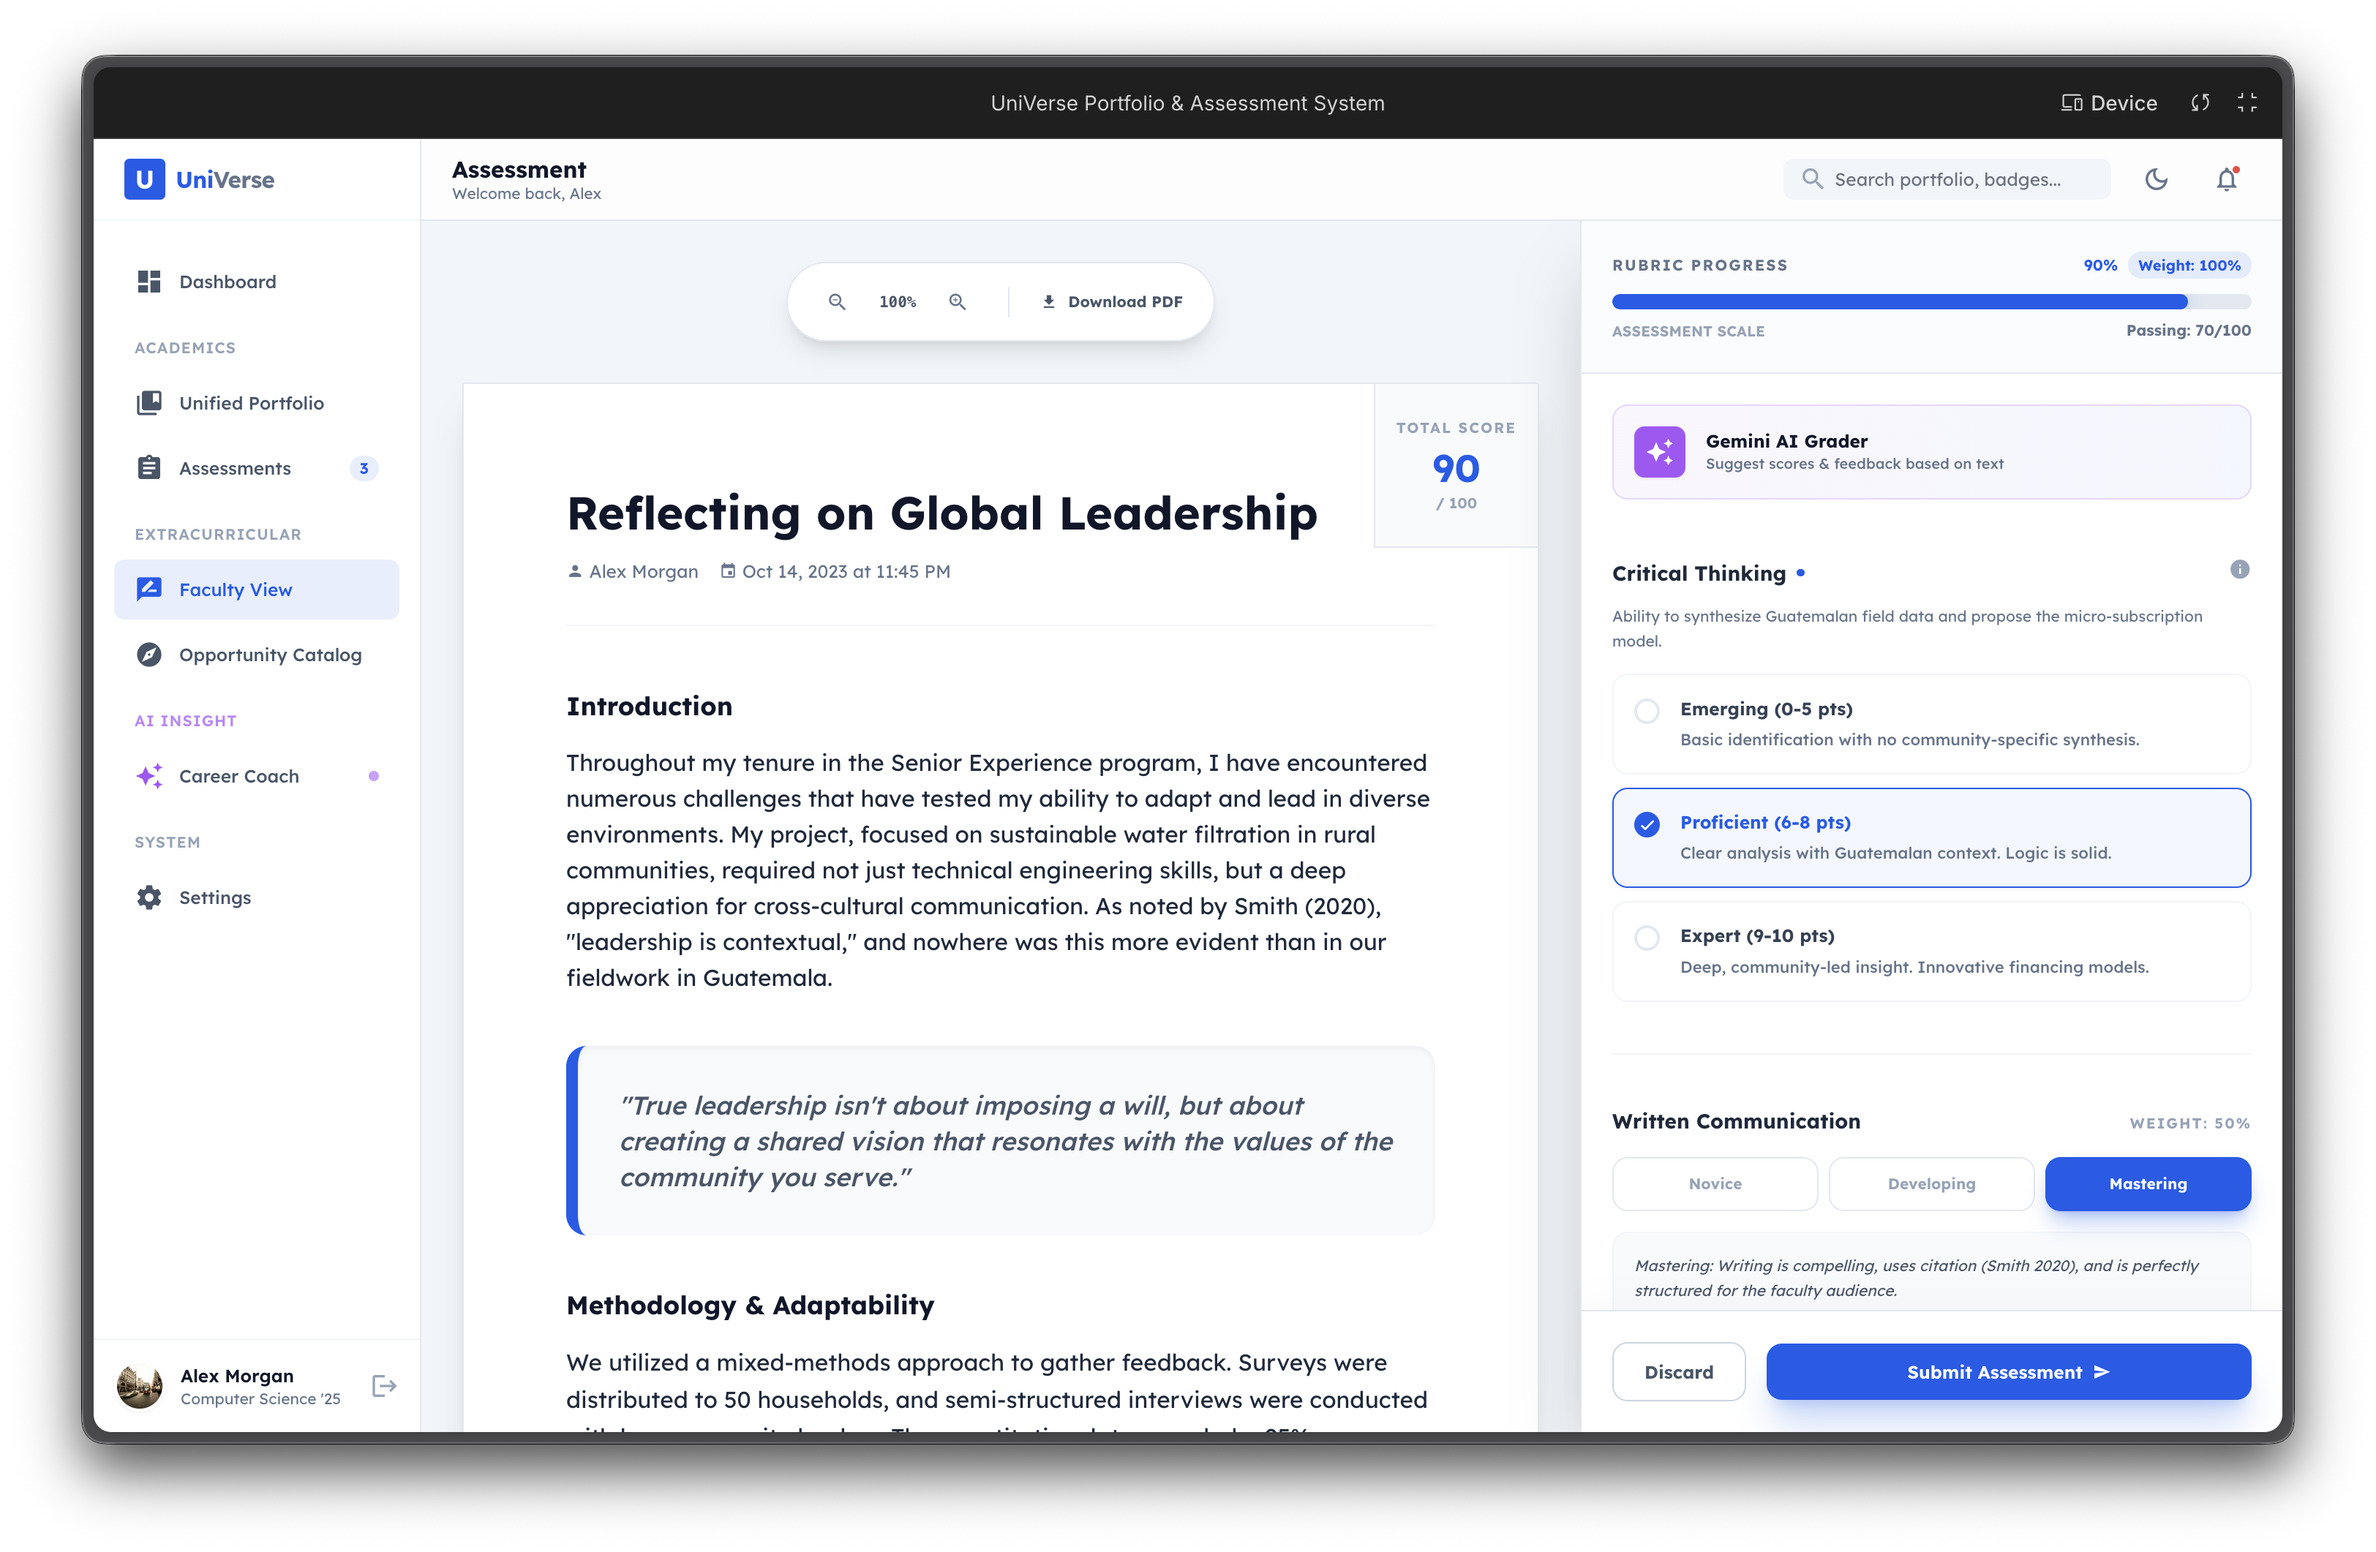
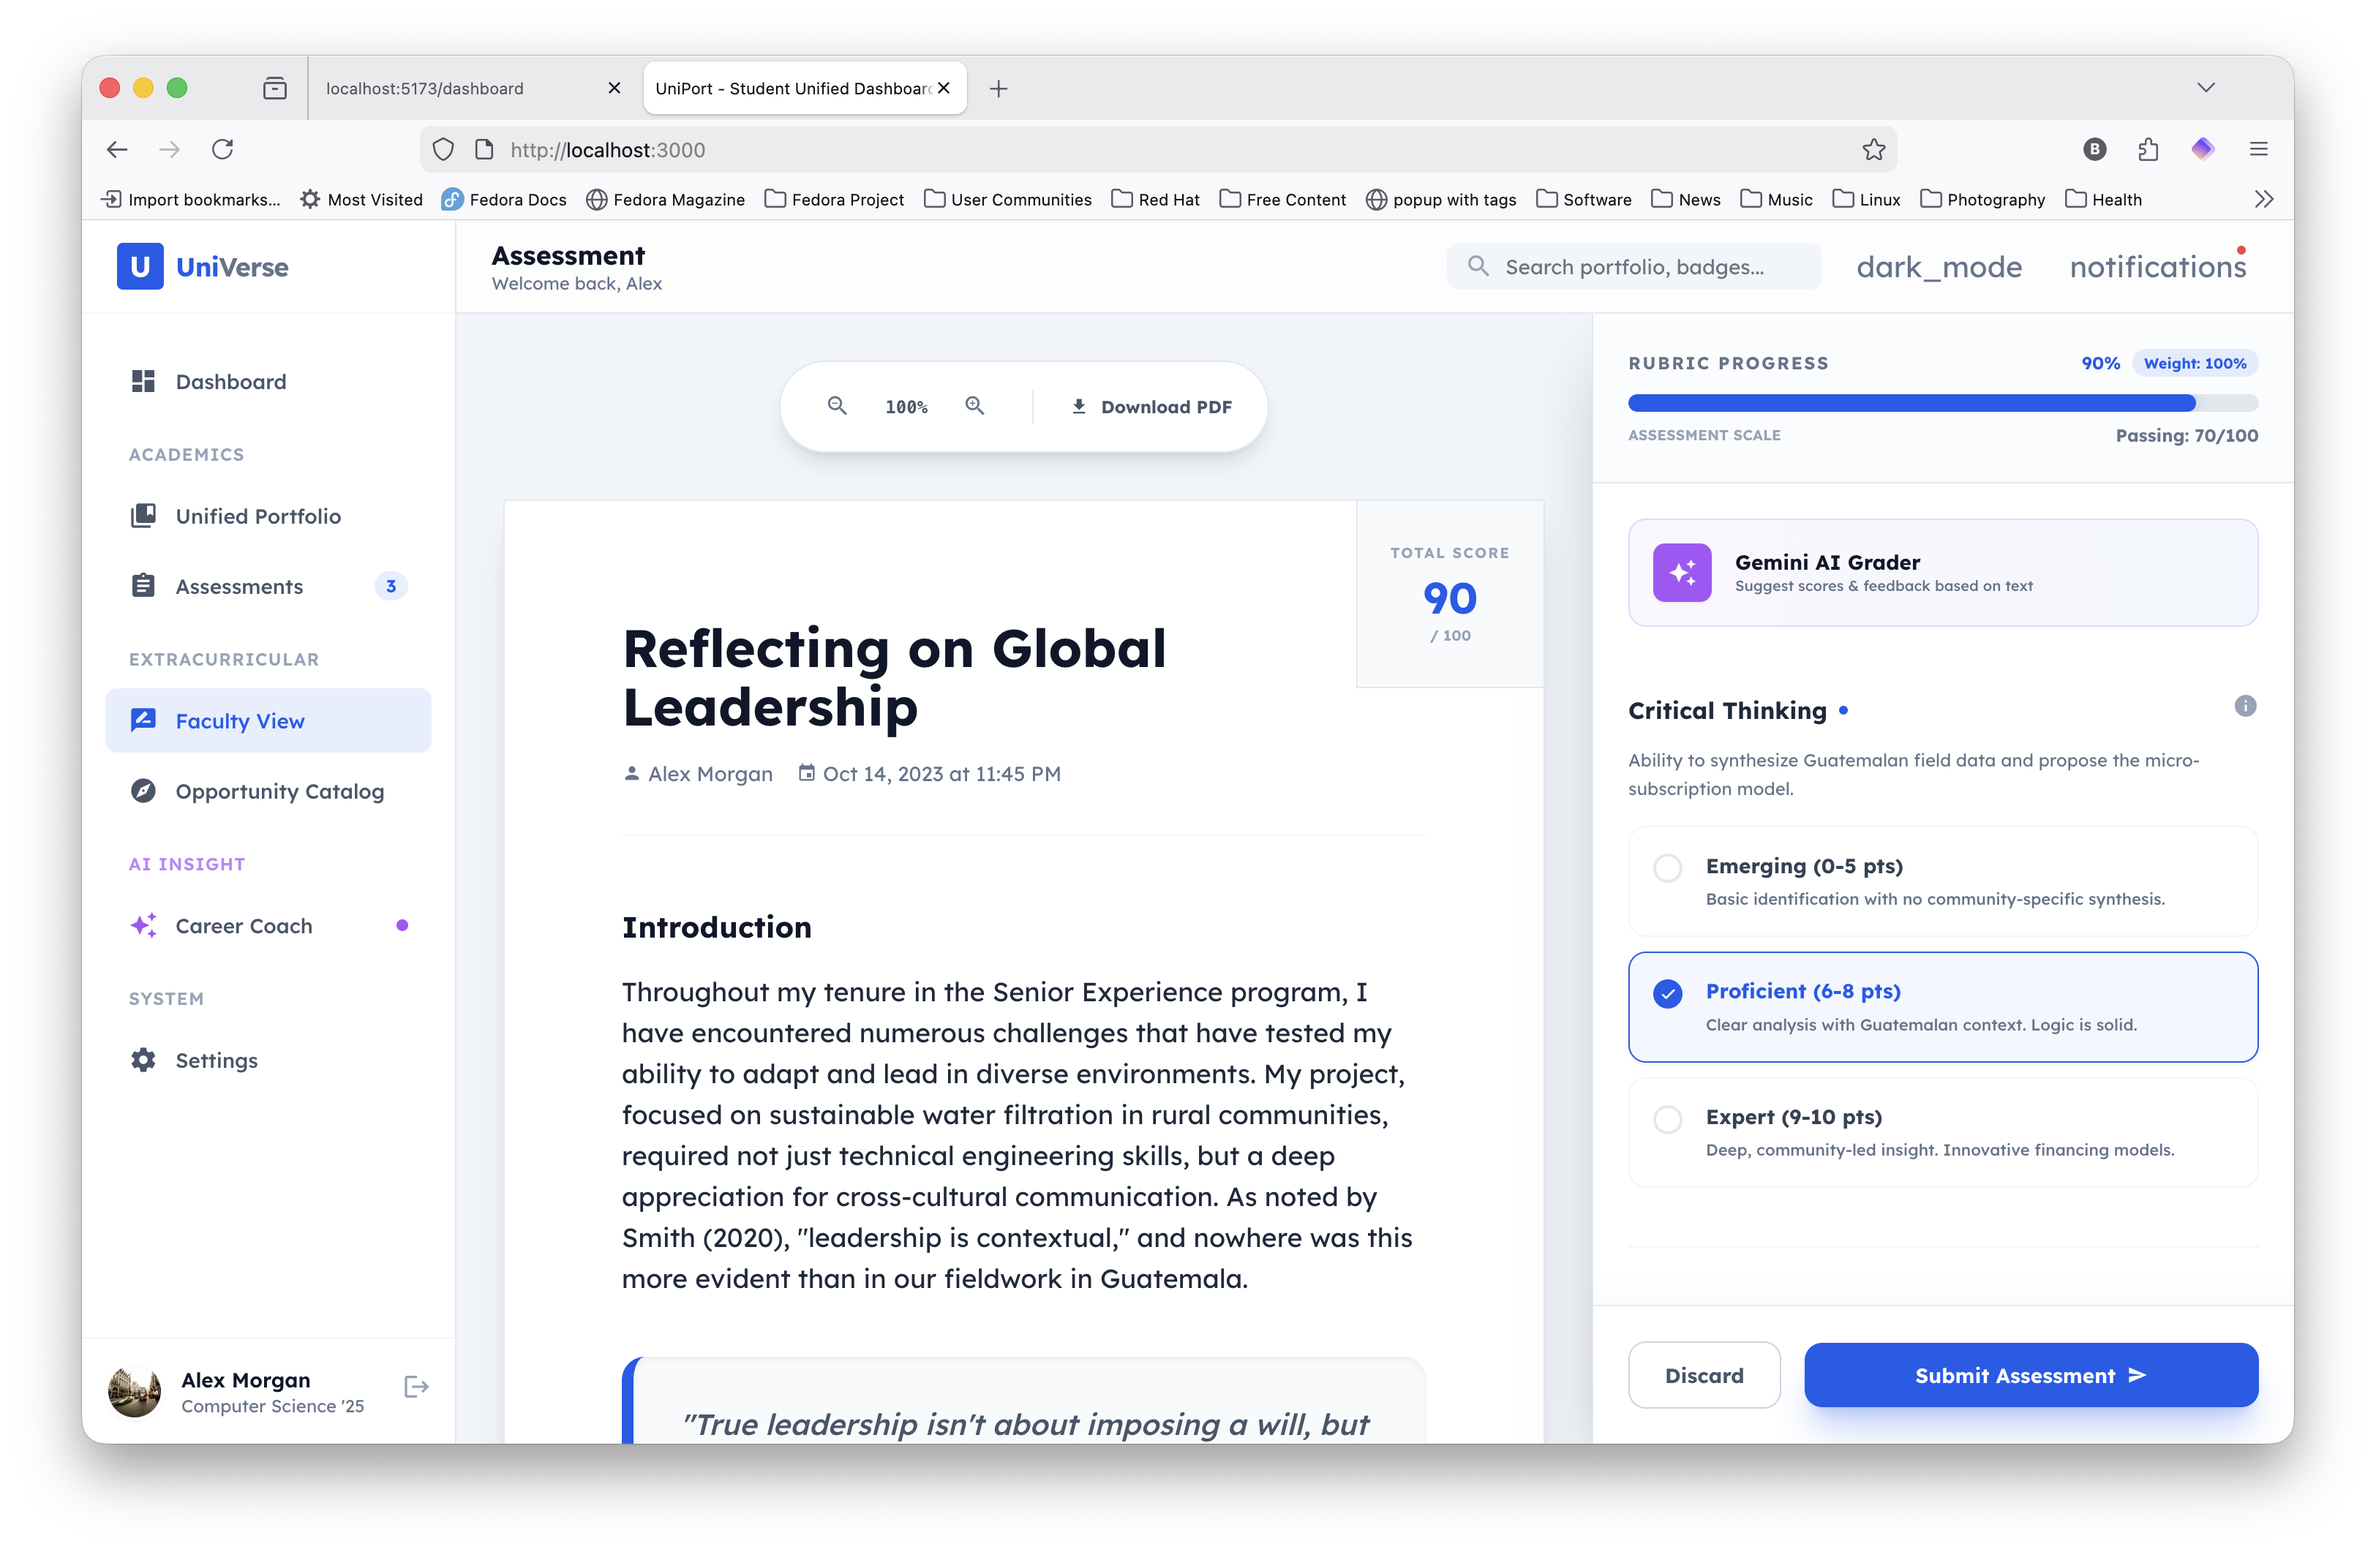
refactor: Update dependencies and project title
Updates project dependencies to specific versions and renames the application from "UniVerse" to "UniPort". This ensures dependency stability and aligns with the new project naming.

diff --git a/index.html b/index.html
@@ -1,14 +1,13 @@
-
 <!DOCTYPE html>
 <html lang="en">
 <head>
     <meta charset="utf-8"/>
     <meta content="width=device-width, initial-scale=1.0" name="viewport"/>
-    <title>UniVerse - Student Unified Dashboard</title>
+    <title>UniPort - Student Unified Dashboard</title>
     <script src="https://cdn.tailwindcss.com?plugins=forms,container-queries"></script>
     <link href="https://fonts.googleapis.com/css2?family=Lexend:wght@300;400;500;600;700&display=swap" rel="stylesheet"/>
     <link href="https://fonts.googleapis.com/icon?family=Material+Icons" rel="stylesheet"/>
-    <link href="https://fonts.googleapis.com/icon?family=Material+Icons+Outlined" rel="stylesheet"/>
+    <link href="https://fonts.googleapis.com/icon?family=Material+Icons-Outlined" rel="stylesheet"/>
     <link href="https://fonts.googleapis.com/css2?family=Material+Symbols+Outlined:wght,FILL@100..700,0..1&display=swap" rel="stylesheet"/>
     <script>
         tailwind.config = {
@@ -55,15 +54,18 @@
 <script type="importmap">
 {
   "imports": {
-    "react": "https://esm.sh/react@^19.2.4",
-    "react/": "https://esm.sh/react@^19.2.4/",
-    "@google/genai": "https://esm.sh/@google/genai@^1.40.0",
-    "react-dom/": "https://esm.sh/react-dom@^19.2.4/"
+    "react": "https://esm.sh/react@19.0.0",
+    "react/": "https://esm.sh/react@19.0.0/",
+    "react-dom": "https://esm.sh/react-dom@19.0.0",
+    "react-dom/client": "https://esm.sh/react-dom@19.0.0/client",
+    "react-dom/": "https://esm.sh/react-dom@19.0.0/",
+    "@google/genai": "https://esm.sh/@google/genai@1.40.0"
   }
 }
 </script>
 </head>
 <body class="bg-background-light dark:bg-background-dark text-slate-800 dark:text-slate-100">
     <div id="root"></div>
+    <script type="module" src="index.tsx"></script>
 </body>
 </html>

diff --git a/README.md b/README.md
@@ -11,17 +11,17 @@ UniVerse is a modern, high-performance student success platform designed to help
 ### Professional Artifact Portfolio
 Move beyond simple grades. UniVerse provides a sophisticated digital vault where students host their best work, from engineering capstones to data science visualizations. Each artifact is enriched with faculty feedback and competency tracking.
 
-![dashboard](./resources/img/dash.png)
+![Unified Student Portfolio](resources/img/unified-portfolio.png)
 
 ### Extracurricular Passport
 Verify your impact. Our gamified badge system tracks growth in critical areas like Global Leadership, Civic Engagement, and Innovation. Every badge is backed by a serial-coded evidence log, making achievements undeniable.
 
+![Opportunity Dash](resources/img/opportunity-dash.png)
+
 ### Integrated Assessment
-Authentic assessement is integrated from the start, for student and faculty alike.
+Authentic assessment is integrated from the start, for student and faculty alike.
 
-![Student assessment view](./resources/img/student-assess.png)
-
-![Faculty assessment view](./resources/img/faculty-assess.png)
+![Faculty Assessment View](resources/img/faculty-assess.png)
 
 ---
 
